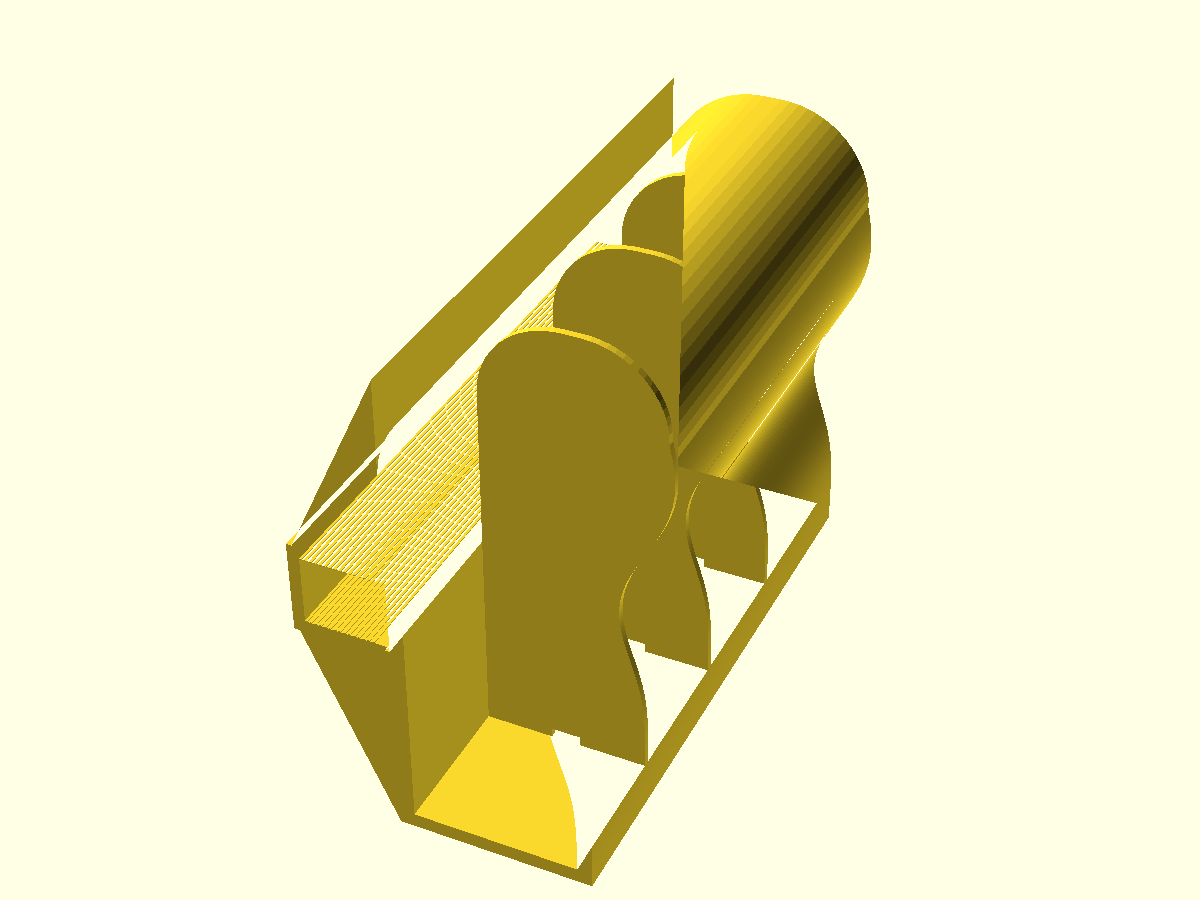
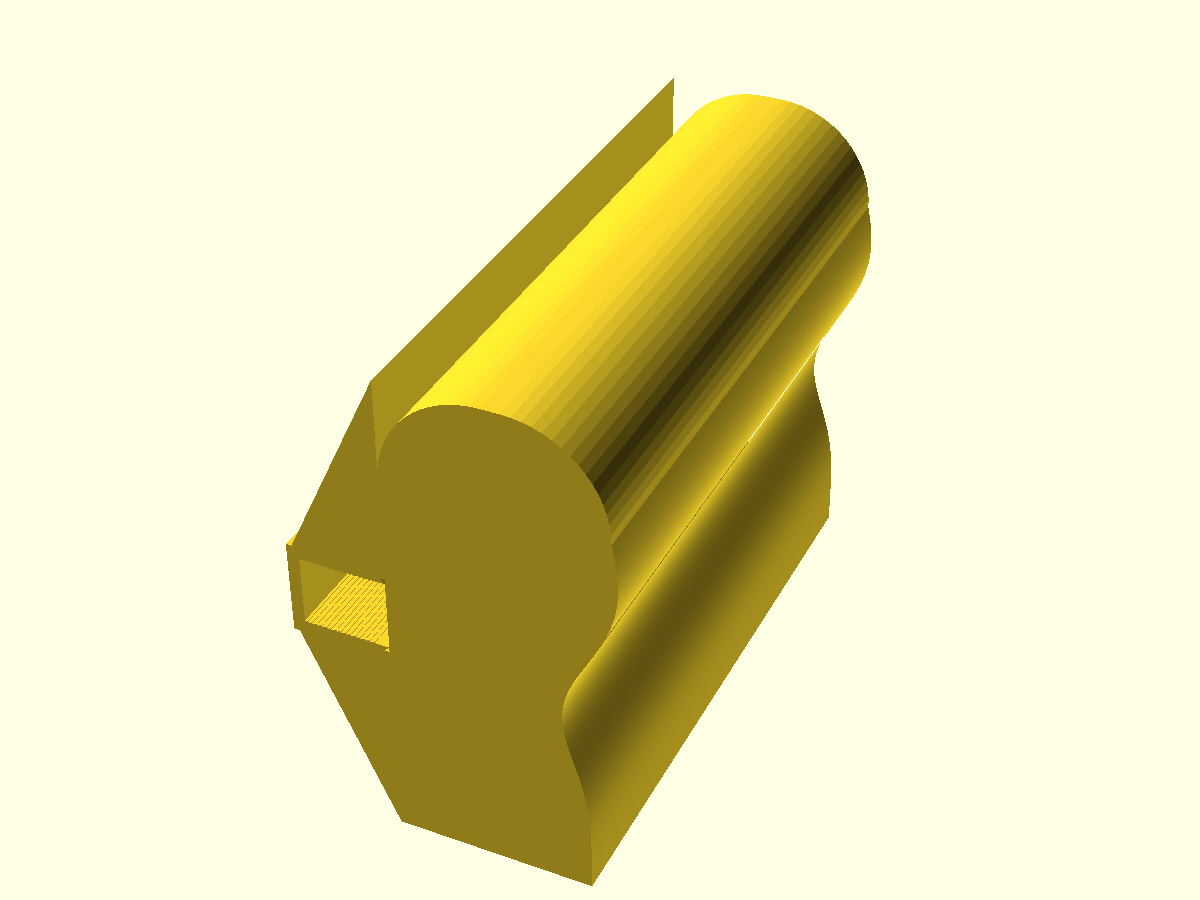
fix: rebuild front face as solid shell for head comfort
The front contour face (where head rests) was hollow — only 3 thin
internal ribs existed across the 250mm width. Rebuilt 3D assembly to
extrude solid pad profile then subtract inner cavity, creating
continuous 6mm shell on all faces.

- Add check_contact_face_coverage validation (ray-cast coverage test)
- Restructure spa_headrest_raw: solid extrude + cavity subtract
- Remove unused shell_2d module
- Fix coplanar face issues with epsilon overlaps on triangles/slot
- Remove Z offset workaround (no longer needed with solid construction)
- All 50 tests pass, front face coverage 100%

Changed region(s): [[0.2467, 0.1556, 0.6783, 0.9644]]

diff --git a/scripts/validate.py b/scripts/validate.py
@@ -530,6 +530,72 @@ def check_wall_thickness(mesh) -> ValidationResult:
         return _warn("wall_thickness", f"Wall thickness check skipped: {exc}")
 
 
+def check_contact_face_coverage(
+    mesh,
+    face_axis: int = 0,
+    face_side: str = "max",
+    sweep_axis: int = 1,
+    height_axis: int = 2,
+    min_coverage_pct: float = 90.0,
+    num_samples: int = 50,
+) -> ValidationResult:
+    """
+    Check that a contact face (e.g. headrest front) has continuous shell material.
+
+    Casts rays inward from the face at evenly spaced positions along sweep_axis,
+    at mid-height on height_axis. Reports the percentage of rays that hit geometry.
+
+    Parameters:
+        face_axis: axis perpendicular to the contact face (0=X, 1=Y, 2=Z)
+        face_side: "max" or "min" — which end of face_axis the contact face is on
+        sweep_axis: axis to sweep sample positions along (the width)
+        height_axis: remaining axis (used for mid-height sampling)
+        min_coverage_pct: minimum % of sample rays that must hit geometry
+        num_samples: number of rays to cast across sweep_axis
+    """
+    bounds = mesh.bounds
+    sweep_min = bounds[0][sweep_axis]
+    sweep_max = bounds[1][sweep_axis]
+    height_mid = (bounds[0][height_axis] + bounds[1][height_axis]) / 2
+
+    if face_side == "max":
+        face_coord = bounds[1][face_axis] + 5.0
+        direction_sign = -1.0
+    else:
+        face_coord = bounds[0][face_axis] - 5.0
+        direction_sign = 1.0
+
+    # Margin: skip ends (end caps will always have material)
+    margin = (sweep_max - sweep_min) * 0.05
+    positions = np.linspace(sweep_min + margin, sweep_max - margin, num_samples)
+
+    origins = np.zeros((num_samples, 3))
+    directions = np.zeros((num_samples, 3))
+    for i, pos in enumerate(positions):
+        origins[i][face_axis] = face_coord
+        origins[i][sweep_axis] = pos
+        origins[i][height_axis] = height_mid
+        directions[i][face_axis] = direction_sign
+
+    locations, index_ray, _ = mesh.ray.intersects_location(
+        ray_origins=origins, ray_directions=directions, multiple_hits=False
+    )
+
+    hits = len(set(index_ray))
+    coverage_pct = 100.0 * hits / num_samples
+
+    if coverage_pct >= min_coverage_pct:
+        return _pass(
+            "contact_face_coverage",
+            f"Contact face coverage = {coverage_pct:.0f}% ({hits}/{num_samples} rays hit)",
+        )
+    return _fail(
+        "contact_face_coverage",
+        f"Contact face coverage = {coverage_pct:.0f}% ({hits}/{num_samples} rays hit, "
+        f"need ≥{min_coverage_pct:.0f}%). Front face may have gaps or only partial shell.",
+    )
+
+
 # ── Main validation pipeline ──────────────────────────────────────────────────
 
 def validate_file(

diff --git a/tests/test_validate.py b/tests/test_validate.py
@@ -14,6 +14,7 @@ from validate import (
     ValidationResult,
     check_build_volume,
     check_closure_clearance,
+    check_contact_face_coverage,
     check_file_exists,
     check_hinge_parameters,
     check_no_degenerate_faces,
@@ -452,3 +453,48 @@ def test_closure_clearance_fail_too_tight():
     result = check_closure_clearance(meta)
     assert result.status == ValidationResult.FAIL
     assert "clearance" in result.message.lower()
+
+
+# ── check_contact_face_coverage ──────────────────────────────────────────────
+
+def test_contact_face_coverage_pass_solid_box():
+    """A solid box has full coverage on any face — should pass."""
+    mesh = trimesh.creation.box(extents=(80, 250, 200))
+    result = check_contact_face_coverage(
+        mesh, face_axis=0, face_side="max", sweep_axis=1,
+        height_axis=2, min_coverage_pct=90.0,
+    )
+    assert result.status == ValidationResult.PASS
+
+
+def test_contact_face_coverage_fail_sparse_ribs():
+    """Three thin slabs spaced across a wide span — most rays should miss,
+    coverage should fail."""
+    # 3 thin ribs: 80mm deep (X), 3mm wide (Y), 200mm tall (Z)
+    # placed at Y=62, Y=125, Y=187 across a 250mm span
+    ribs = []
+    for y_pos in [62, 125, 187]:
+        rib = trimesh.creation.box(extents=(80, 3, 200))
+        rib.apply_translation([40, y_pos, 100])
+        ribs.append(rib)
+    mesh = trimesh.util.concatenate(ribs)
+    result = check_contact_face_coverage(
+        mesh, face_axis=0, face_side="max", sweep_axis=1,
+        height_axis=2, min_coverage_pct=90.0,
+    )
+    assert result.status == ValidationResult.FAIL
+    assert "coverage" in result.message.lower()
+
+
+def test_contact_face_coverage_pass_real_stl():
+    """The spa headrest STL should have ≥90% front face coverage after fix."""
+    stl_path = "models/spa_headrest/output/spa_headrest_001.stl"
+    mesh = trimesh.load(stl_path)
+    # In print orientation: X=depth (front face at max X), Y=width (sweep), Z=height
+    result = check_contact_face_coverage(
+        mesh, face_axis=0, face_side="max", sweep_axis=1,
+        height_axis=2, min_coverage_pct=90.0,
+    )
+    assert result.status == ValidationResult.PASS, (
+        f"Front face coverage too low: {result.message}"
+    )

diff --git a/models/spa_headrest/simulations.md b/models/spa_headrest/simulations.md
@@ -4,18 +4,19 @@
 
 ### Expected Outcomes
 
-| # | Check                 | Expected | Notes                                          |
-|---|-----------------------|----------|-------------------------------------------------|
-| 1 | file_exists           | PASS     | `output/spa_headrest_001.stl`                   |
-| 2 | supported_format      | PASS     | `.stl` format                                   |
-| 3 | loadable              | PASS     | Standard STL mesh                               |
-| 4 | non_empty             | PASS     | ~2000 faces                                     |
-| 5 | watertight            | PASS     | Manifold mesh, no open edges                    |
-| 6 | build_volume          | PASS     | ~119 × 250 × 188 mm fits 350×320×325           |
-| 7 | positive_volume       | PASS     | ~111,000 mm³                                    |
-| 8 | no_degenerate_faces   | PASS     | Clean geometry                                  |
-| 9 | wall_thickness        | SKIP     | Skipped (--skip-wall-thickness); design uses 6mm walls |
-| 10| base_on_bed           | PASS     | Z=0 at base (print orientation corrected)       |
+| # | Check                  | Expected | Notes                                          |
+|---|------------------------|----------|-------------------------------------------------|
+| 1 | file_exists            | PASS     | `output/spa_headrest_001.stl`                   |
+| 2 | supported_format       | PASS     | `.stl` format                                   |
+| 3 | loadable               | PASS     | Standard STL mesh                               |
+| 4 | non_empty              | PASS     | ~3800 faces                                     |
+| 5 | watertight             | PASS     | Manifold mesh, no open edges                    |
+| 6 | build_volume           | PASS     | ~130 × 250 × 200 mm fits 350×320×325           |
+| 7 | positive_volume        | PASS     | ~1,842,000 mm³                                  |
+| 8 | no_degenerate_faces    | PASS     | Clean geometry                                  |
+| 9 | wall_thickness         | SKIP     | Skipped (--skip-wall-thickness); design uses 6mm walls |
+| 10| base_on_bed            | PASS     | Z=0 at base                                     |
+| 11| contact_face_coverage  | PASS     | Front face 100% shell coverage (ray cast check) |
 
 ### Validation Command
 
@@ -29,13 +30,19 @@ python3 scripts/validate.py models/spa_headrest/output/spa_headrest_001.stl --sk
 ✅ file_exists: PASS
 ✅ supported_format: PASS
 ✅ loadable: PASS
-✅ non_empty: PASS (2,028 faces, 1,080 vertices)
+✅ non_empty: PASS (3,840 faces, 1,978 vertices)
 ✅ watertight: PASS
-✅ build_volume: PASS (118.8 × 250.0 × 188.0 mm)
-✅ positive_volume: PASS (113,816 mm³)
+✅ build_volume: PASS (129.8 × 250.0 × 200.0 mm)
+✅ positive_volume: PASS (1,842,187 mm³)
 ✅ no_degenerate_faces: PASS
 ✅ base_on_bed: PASS (Z = 0.00 mm)
 Overall: PASS
+```
+
+### Contact Face Coverage Test
+
+```
+✅ contact_face_coverage: PASS (50/50 rays hit, 100% coverage)
 ```
 
 ### Physical Test Plan
